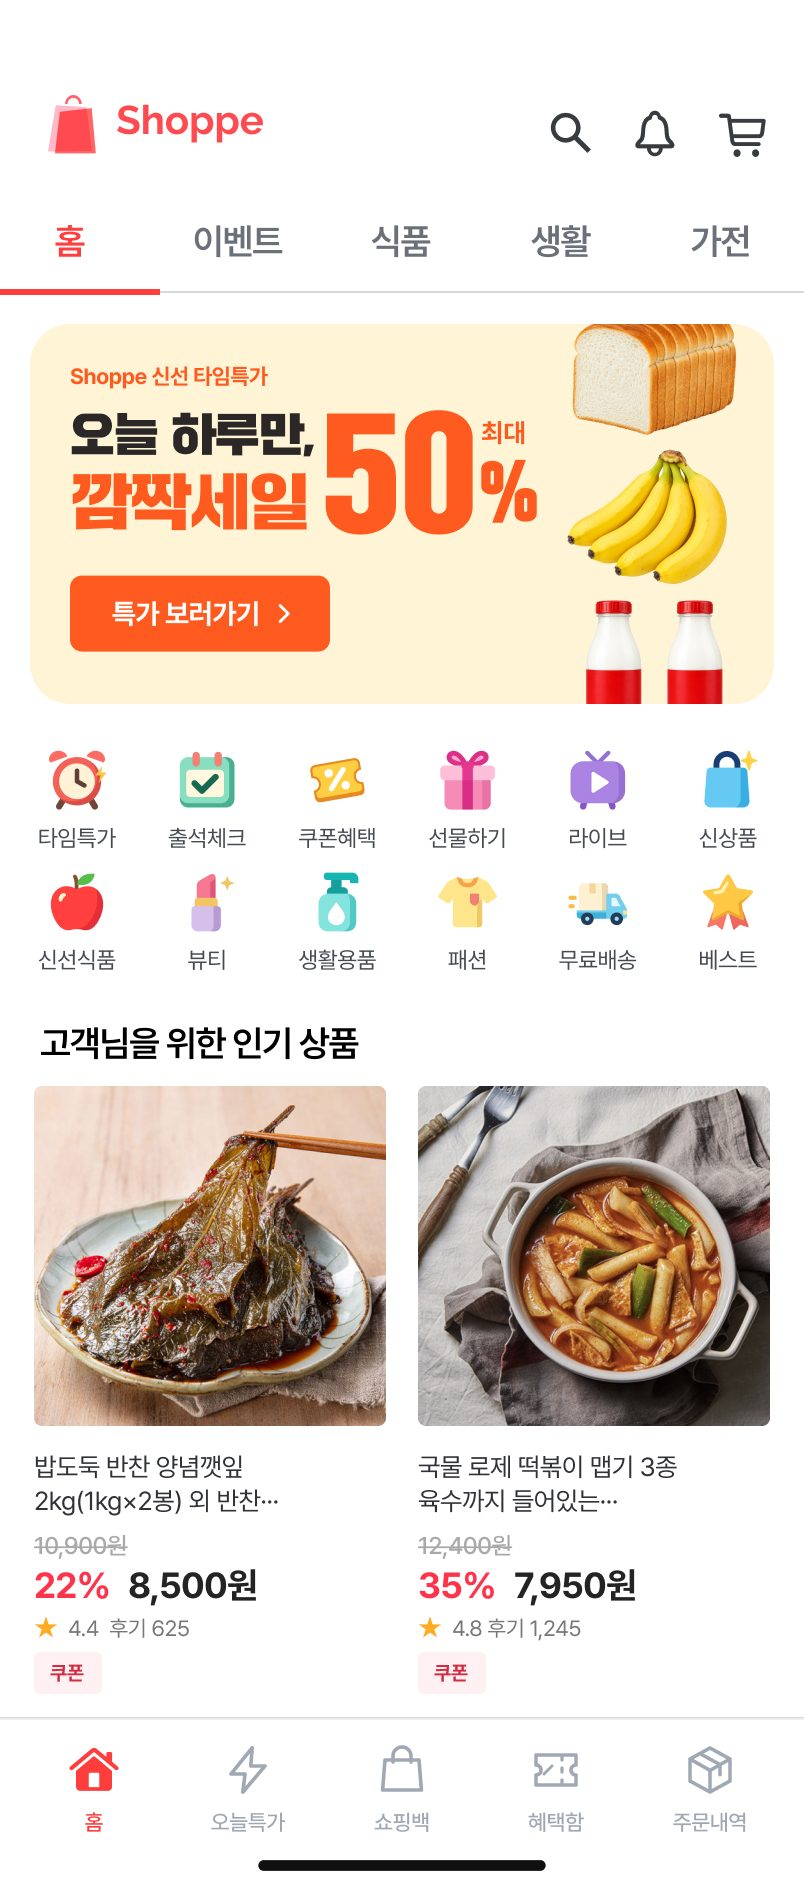
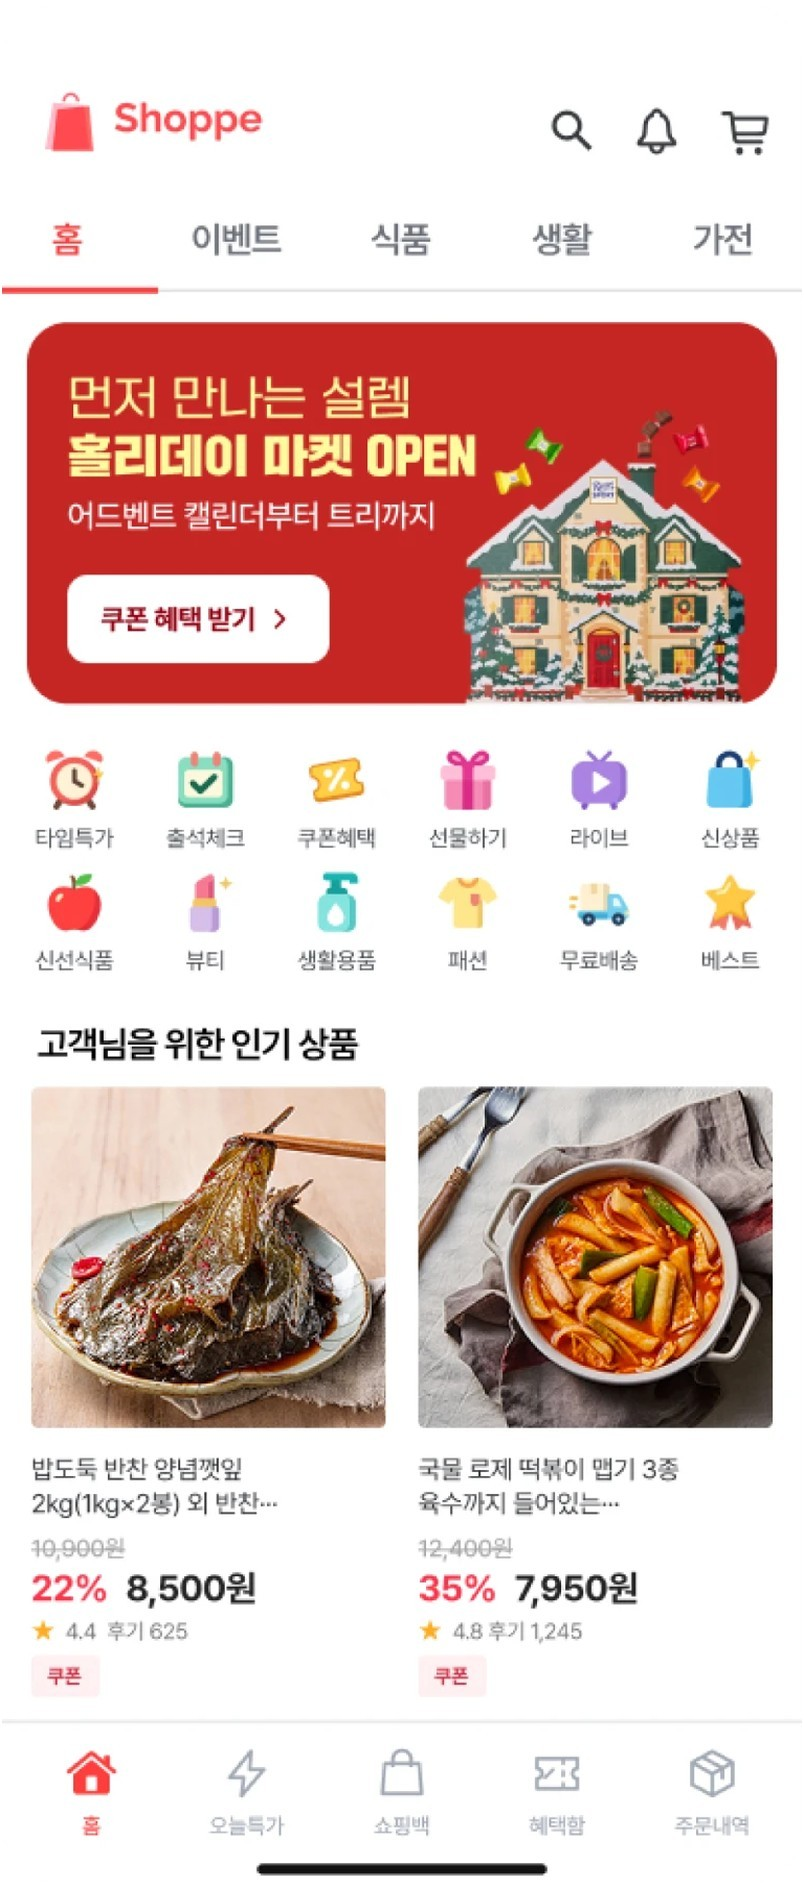
Update survey

diff --git a/index.html b/index.html
@@ -150,12 +150,12 @@ input:focus-visible, button:focus-visible, [tabindex]:focus-visible { outline: 3
 .rank-card[aria-pressed="true"] .phone { outline-color: var(--accent); }
 .rank-badge { position: absolute; left: 8px; top: 8px; width: 32px; height: 32px; border-radius: 50%; background: var(--accent); color: var(--accent-ink); font-weight: 700; display: grid; place-items: center; font-variant-numeric: tabular-nums; box-shadow: 0 2px 6px rgba(0,0,0,.25); }
 .rank-name { font-size: 20px; font-weight: 600; color: var(--accent); text-align: center; line-height: 1.2; margin-top: 4px; }
-.rank-key { align-items: center; gap: 10px; }
-.rank-key span { white-space: nowrap; }
-.rank-key i { flex: 1; height: 1px; background: var(--muted); position: relative; min-width: 24px; }
-.rank-key i::before, .rank-key i::after { content: ""; position: absolute; top: -4px; width: 8px; height: 8px; border-top: 1px solid var(--muted); }
-.rank-key i::before { left: 0; border-left: 1px solid var(--muted); transform: rotate(-45deg); transform-origin: 0 0; top: 0; }
-.rank-key i::after { right: 0; border-right: 1px solid var(--muted); transform: rotate(45deg); transform-origin: 100% 0; top: 0; }
+.rank-scale { margin-top: 6px; font-weight: 600; font-size: 15px; }
+.rank-slots { position: sticky; top: calc(env(safe-area-inset-top, 0px) + 41px); z-index: 10; background: var(--bg); display: flex; align-items: center; justify-content: center; gap: 8px; padding-block: 10px; margin-top: -12px; }
+.slot { width: 56px; height: 56px; border-radius: 10px; background: var(--line); color: var(--muted); display: grid; place-items: center; font-size: 15px; font-weight: 500; border: 0; padding: 0; }
+.slot.filled { background: var(--surface); border: 2px solid var(--accent); color: var(--accent); font-size: 24px; font-weight: 700; cursor: pointer; }
+.slot-arrow { color: var(--muted); font-size: 16px; }
+.rank-help { text-align: center; margin: 2px 0 14px; }
 .rank-zoom { background: transparent; border: 0; color: var(--muted); font-size: 13px; cursor: pointer; text-decoration: underline; text-underline-offset: 3px; padding: 2px 6px; }
 
 /* lightbox */
@@ -163,7 +163,9 @@ input:focus-visible, button:focus-visible, [tabindex]:focus-visible { outline: 3
 .lightbox img { max-height: calc(100vh - 90px); max-width: 100%; width: auto; border-radius: 22px; }
 .lightbox .close { position: absolute; right: max(16px, env(safe-area-inset-right, 0px)); top: max(16px, env(safe-area-inset-top, 0px)); background: #fff; color: #111; border: 0; border-radius: 999px; padding: 8px 16px; font-weight: 600; cursor: pointer; }
 .fab { position: fixed; z-index: 40; right: max(16px, env(safe-area-inset-right, 0px)); bottom: calc(16px + env(safe-area-inset-bottom, 0px)); background: var(--fg); color: var(--bg); border: 0; border-radius: 999px; padding: 12px 18px; font-weight: 600; box-shadow: 0 6px 20px rgba(0,0,0,.25); cursor: pointer; }
-@media (min-width: 860px) { .fab { display: none; } }
+.fab { transition: opacity .2s, transform .2s; }
+.fab.fab-hide { opacity: 0; transform: translateY(12px); pointer-events: none; }
+@media (prefers-reduced-motion: reduce) { .fab { transition: none; } }
 
 /* done / results */
 .code { font-family: var(--font-mono); font-size: 14px; background: var(--bg); border: 1px dashed var(--line); padding: 10px 12px; border-radius: 8px; word-break: break-all; }
@@ -205,16 +207,16 @@ th { background: var(--bg); position: sticky; top: 0; }
     return GROUP_ORDERS[g] ? Number(g) : 1;
   })();
   const ORDER = GROUP_ORDERS[GROUP].split("");
-  const IMG = { base: "base.jpg", home: "home.jpg", A: "A.jpg", B: "B.jpg", C: "C.jpg", D: "D.jpg" };
+  const IMG = { base: "base.jpg", home: "home.jpg", A: "A.jpg", B: "B.jpg", C: "C.jpg", D: "D.jpg?v=2" };
   const COND = {
     A: "동일 광고 · 팝업", B: "동일 광고 · 고정 배너",
     C: "다른 광고 · 팝업", D: "다른 광고 · 고정 배너"
   };
   const P_OPTS = [
-    ["P1", "해당 광고의 팝업만 차단"],
-    ["P2", "해당 광고의 모든 형태 차단"],
-    ["P3", "모든 팝업 광고 차단"],
-    ["P4", "모든 인앱 광고 차단"]
+    ["P1", "처음 본 광고가 팝업 형태로만 다시 나타나지 않는 것"],
+    ["P2", "처음 본 광고가 어떤 형태로도 다시 나타나지 않는 것"],
+    ["P3", "광고 내용과 관계없이 모든 팝업 광고가 나타나지 않는 것"],
+    ["P4", "광고 내용과 형태에 관계없이 모든 인앱 광고가 나타나지 않는 것"]
   ];
   const ITEMS = [
     ["V1", "이 광고 노출은 이전에 표시한 나의 거부 의사가 무시되었다고 느껴진다."],
@@ -501,10 +503,7 @@ th { background: var(--bg); position: sticky; top: 0; }
           </div>
         </div>
       </div>`;
-    const fab = document.createElement("button");
-    fab.className = "fab"; fab.type = "button"; fab.textContent = "화면 다시 보기";
-    fab.onclick = () => openLB(IMG[c], "상황 " + c + " 화면");
-    document.body.appendChild(fab);
+    addFab();
     document.getElementById("zoomBtn").onclick = () => openLB(IMG[c], "상황 " + c + " 화면");
 
     app.querySelectorAll(".likert button").forEach(b => b.onclick = () => {
@@ -527,6 +526,23 @@ th { background: var(--bg); position: sticky; top: 0; }
     };
   }
 
+  // ‘처음 화면 다시 보기’ 버튼: 처음 본 광고 팝업(기본 이미지)을 크게 보여 줌.
+  // 아래쪽 ‘다음/제출하기’ 버튼 줄이 화면에 들어오면 가리지 않도록 숨김
+  let fabObs = null;
+  function addFab() {
+    document.querySelector(".fab")?.remove();
+    if (fabObs) { fabObs.disconnect(); fabObs = null; }
+    const fab = document.createElement("button");
+    fab.className = "fab"; fab.type = "button"; fab.textContent = "처음 화면 다시 보기";
+    fab.onclick = () => openLB(IMG.base, "처음 본 광고 팝업 화면");
+    document.body.appendChild(fab);
+    const row = app.querySelector(".btn-row");
+    if (row && "IntersectionObserver" in window) {
+      fabObs = new IntersectionObserver(([e]) => fab.classList.toggle("fab-hide", e.isIntersecting));
+      fabObs.observe(row);
+    }
+  }
+
   // 마지막 화면: 네 상황을 집단 제시 순서대로 보여 주고, 당시 기대와 가까운 순서대로 눌러 1~4 번호를 매김
   function renderRank() {
     const rank = S.rank;
@@ -534,11 +550,19 @@ th { background: var(--bg); position: sticky; top: 0; }
       <div class="cond-head">
         <p class="eyebrow">마지막 질문</p>
         <h2 class="title">처음 ‘7일간 보지 않기’를 선택했을 때, 어떤 광고가 보이지 않기를 바랐는지 떠올려 주세요.</h2>
-        <p class="lead">아래 네 가지 상황을 당시 기대와 가장 가까운 상황부터 가장 다른 상황까지 순서대로 배열해 주세요.</p>
-        <p class="muted" style="margin-top:6px">가장 가까운 화면부터 차례로 누르면 1~4 번호가 붙습니다. 다시 누르면 취소됩니다.</p>
+        <p class="lead">아래 네 가지 상황을 당시 기대와 가장 가까운 상황부터 가장 다른 상황까지 순서대로 선택해 주세요.</p>
+        <p class="rank-scale">1. 가장 가까운 상황 ~ 4. 가장 다른 상황</p>
       </div>
+      <div class="rank-slots" aria-label="선택한 순서">
+        ${ORDER.map((_, i) => {
+          const c = rank[i];
+          return (i ? `<span class="slot-arrow" aria-hidden="true">→</span>` : "") +
+            (c ? `<button type="button" class="slot filled" data-s="${c}" aria-label="${i + 1}번째 ${c}, 눌러서 취소">${c}</button>`
+               : `<span class="slot" aria-label="${i + 1}번째 비어 있음">${i + 1}</span>`);
+        }).join("")}
+      </div>
+      <p class="muted rank-help">화면을 누르면 위 칸이 순서대로 채워집니다. 다시 누르면 취소됩니다.</p>
       <div class="stack">
-        <div class="scale-key rank-key"><span>1 가장 가까운 상황</span><i aria-hidden="true"></i><span>4 가장 다른 상황</span></div>
         <div class="rank-grid">
           ${ORDER.map(c => {
             const n = rank.indexOf(c) + 1;
@@ -560,13 +584,15 @@ th { background: var(--bg); position: sticky; top: 0; }
           <button class="btn" type="button" id="rNext" ${rank.length === ORDER.length ? "" : "disabled"}>제출하기</button>
         </div>
       </div>`;
-    app.querySelectorAll("[data-c]").forEach(b => b.onclick = () => {
-      const c = b.dataset.c;
+    const toggle = c => {
       const i = rank.indexOf(c);
       if (i >= 0) rank.splice(i, 1); else rank.push(c);
       renderRank();
       app.querySelector(`[data-c="${c}"]`).focus({ preventScroll: true });
-    });
+    };
+    app.querySelectorAll("[data-c]").forEach(b => b.onclick = () => toggle(b.dataset.c));
+    app.querySelectorAll("[data-s]").forEach(b => b.onclick = () => toggle(b.dataset.s));
+    addFab();
     app.querySelectorAll("[data-z]").forEach(b => b.onclick = () => openLB(IMG[b.dataset.z], "상황 " + b.dataset.z + " 화면"));
     document.getElementById("rBack").onclick = () => go(step - 1);
     const rs = document.getElementById("rReset");
